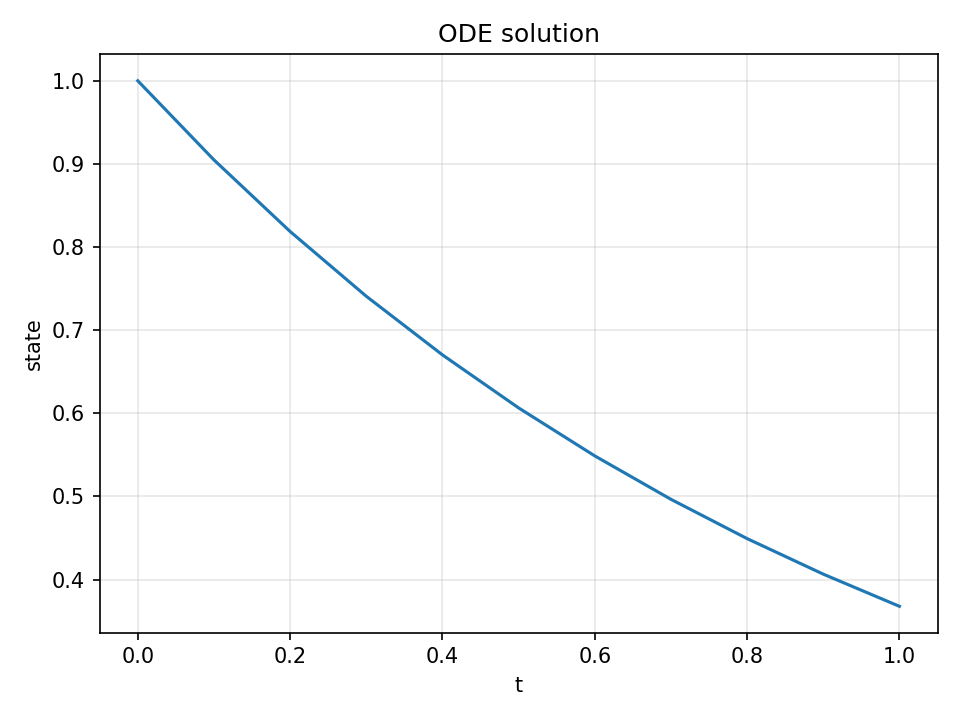
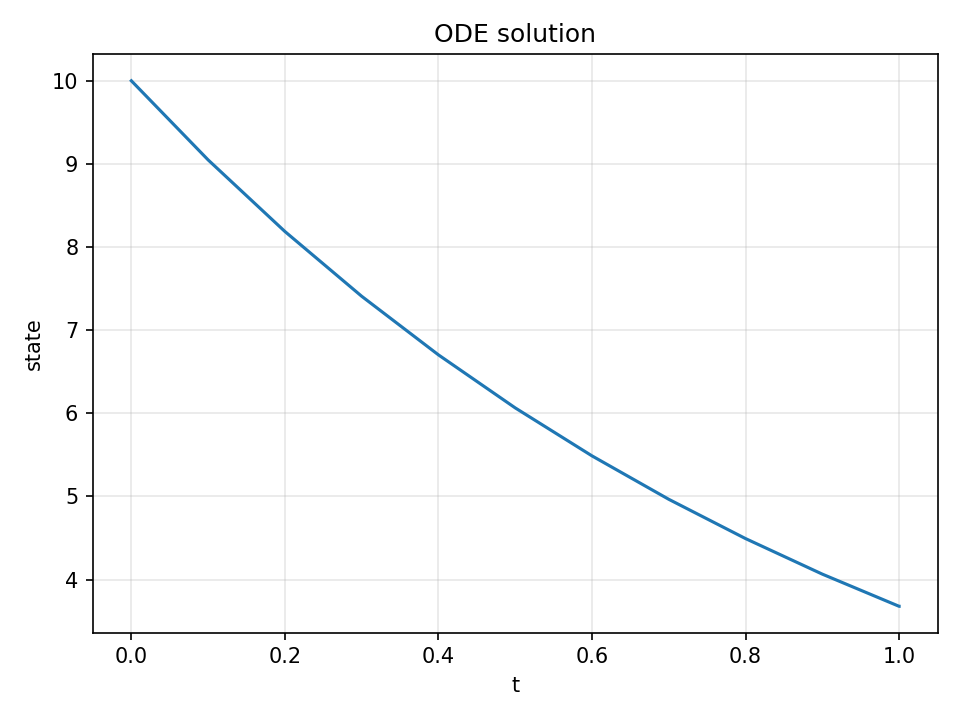
feature-12 completed

diff --git a/ode_solver.py b/ode_solver.py
@@ -61,7 +61,7 @@ if __name__ == "__main__":
     times, states = solve_ode(
         lambda _time, state: [-state[0]],
         t_span=(0.0, 1.0),
-        initial_state=[1.0],
+        initial_state=[10.0],
         step_size=0.1,
     )
     print(f"y(0) = {states[0][0]:.4f}")
